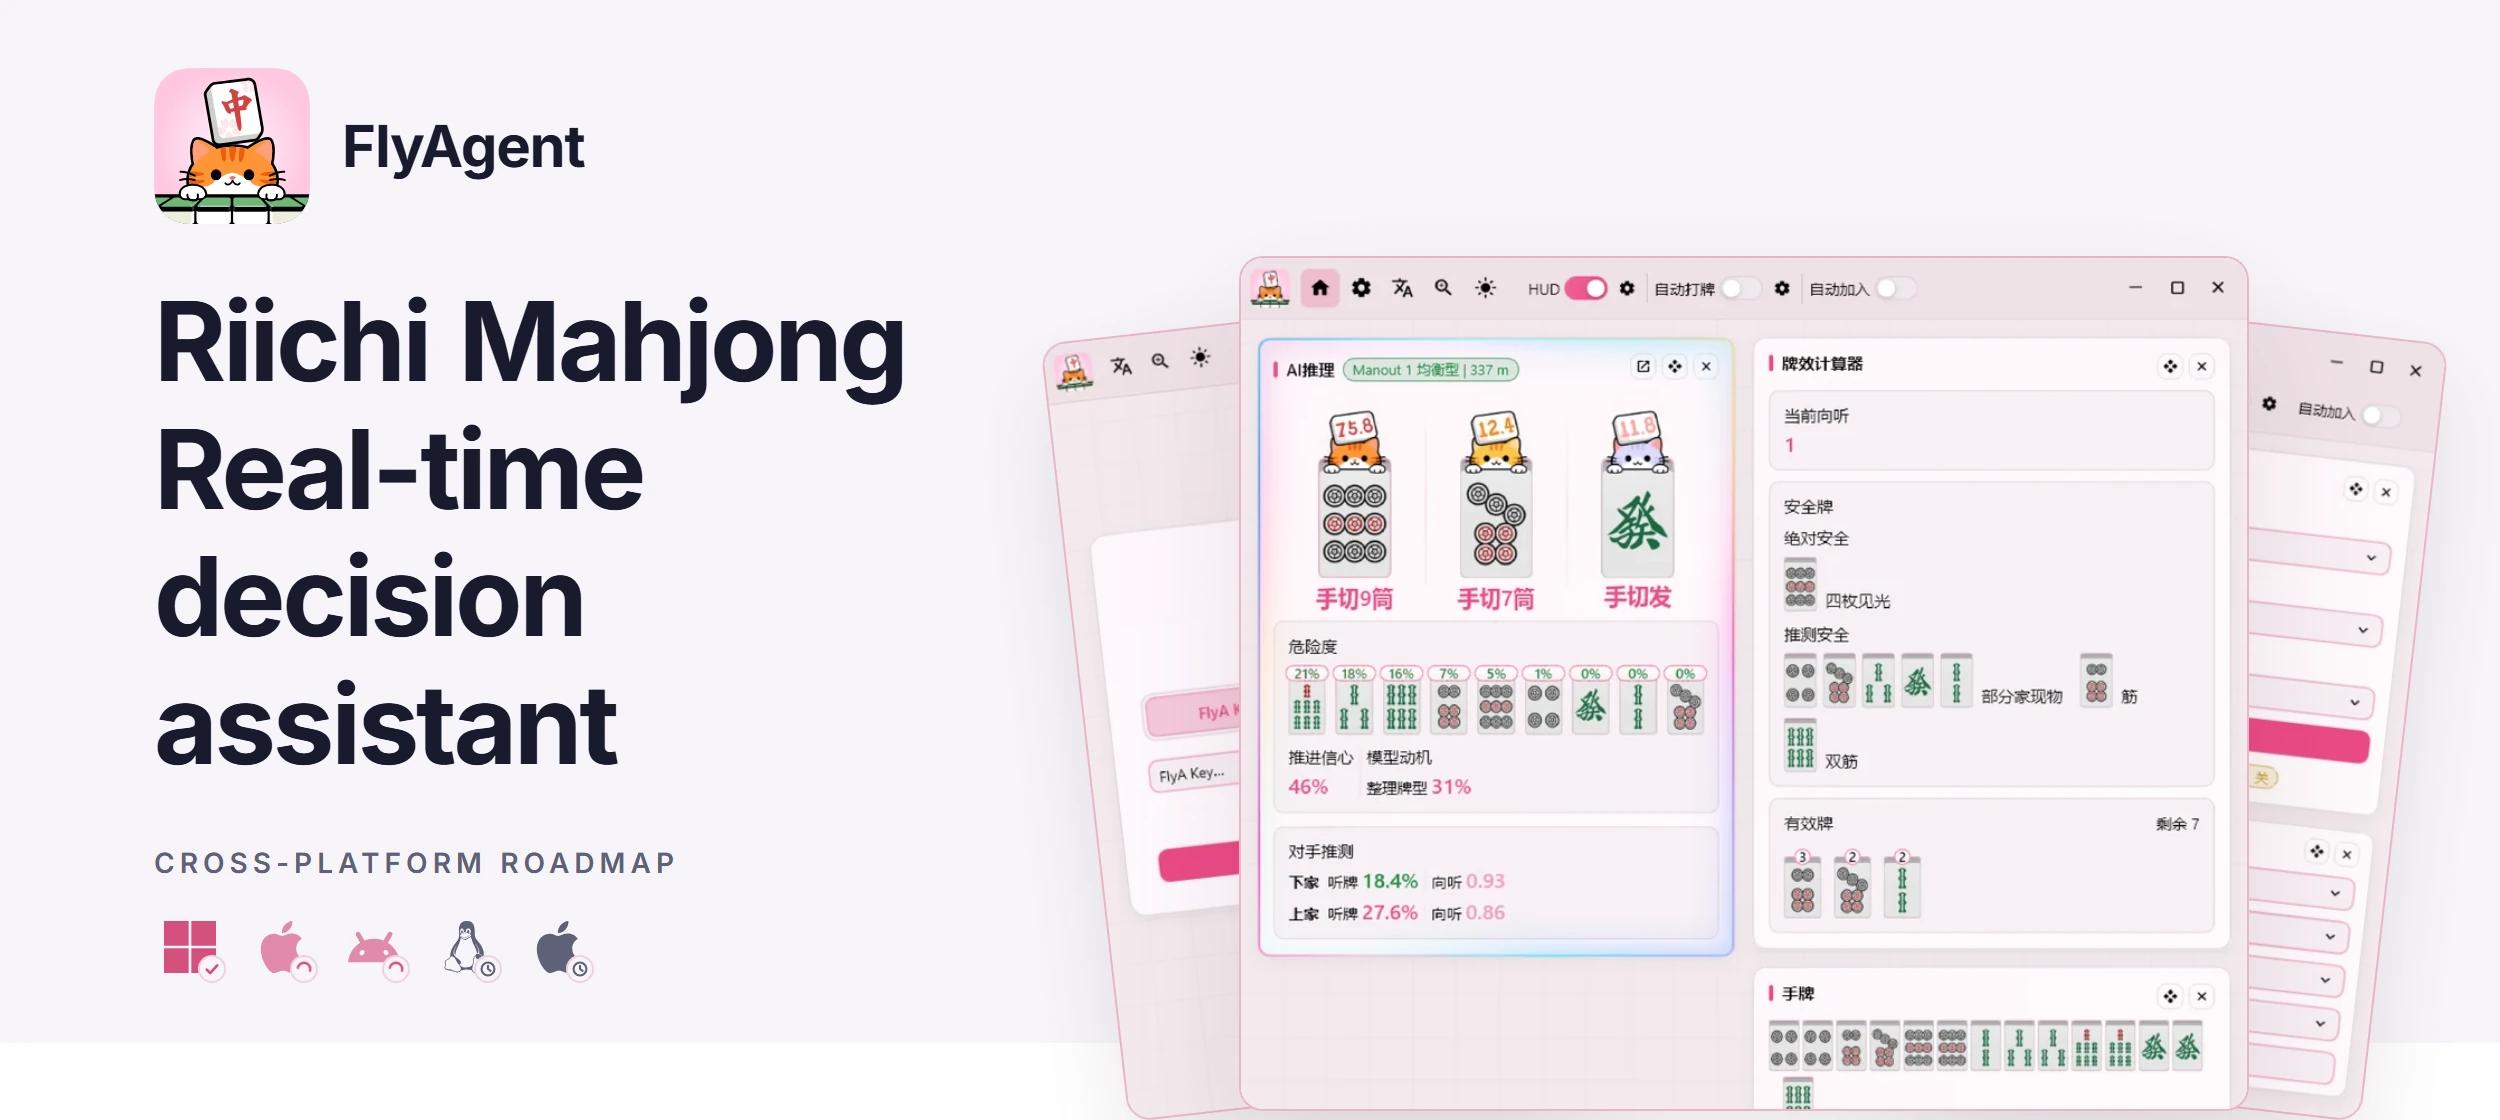
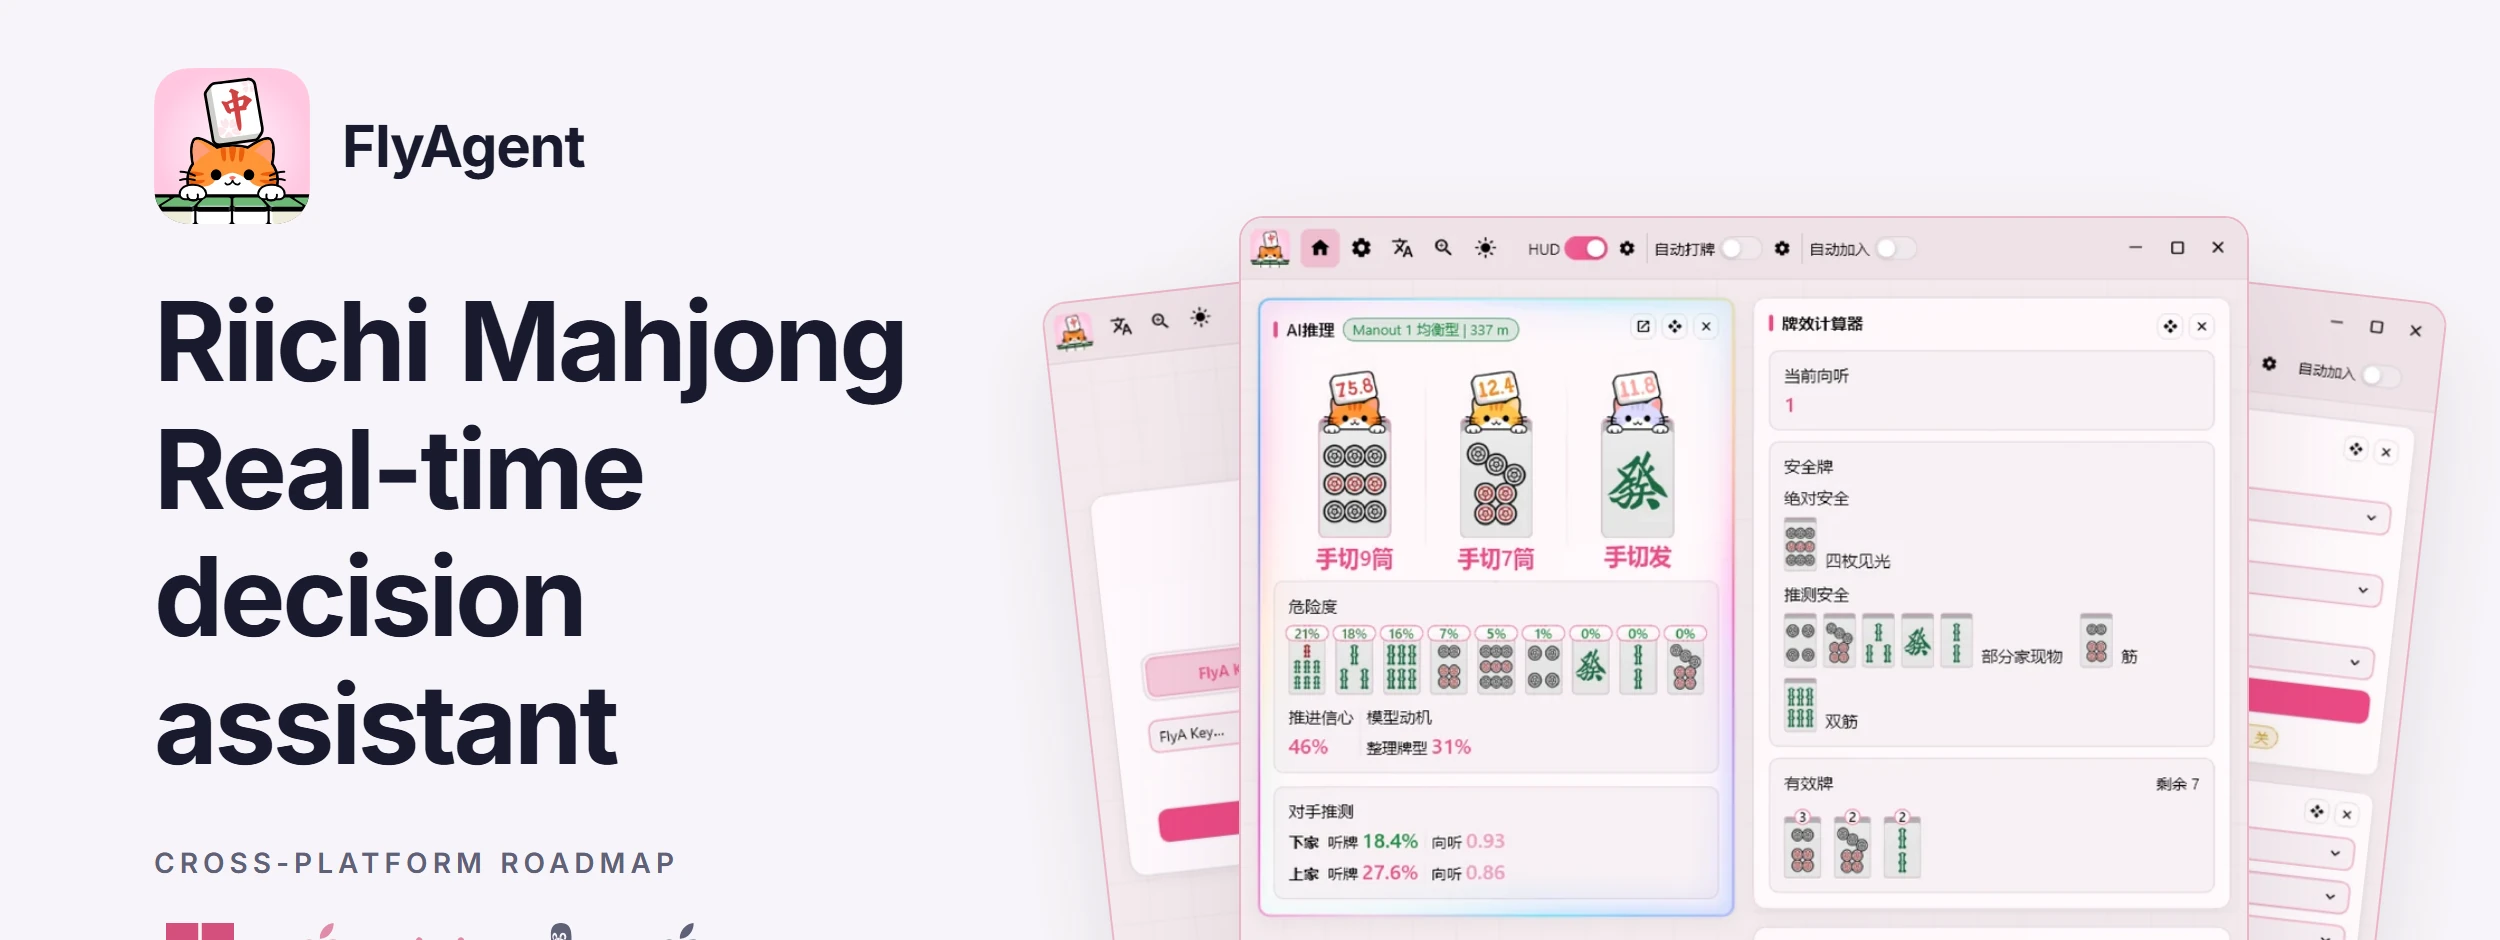
docs: 头图修溢出与排版，图名改英文，去掉重复的大主图
- 头图（HTML 生成版）修三处：
  · 画布加 overflow:hidden —— 右列窗口的 right:-5% 出血设计原来被裁出画布
  · .stack 负边距 -64 → -34px，窗口不再沉出画布底边；出图高度 560 → 470
  · 调整区里 @keyframes os-spin 少一个右括号，导致其后所有 CSS 被丢弃
    （按钮隐藏、平台图标放大都没生效）——已补齐
- 平台图标与状态徽章随之真正放大（容器 36→46、图标 26→34、徽章 14→17）
- 去掉 h1 下面那张大主图：头图里已经含应用窗口，重复
- 图片文件名改英文（ranks / mortal-review / app-screens），
  后续四语 README 共用同一批图，中文名在 URL 里编码后不好读

diff --git a/README.md b/README.md
@@ -1,7 +1,7 @@
 <div align="center">
   <img src="images/hero-en.webp" alt="FlyAgent · riichi mahjong real-time decision assistant" />
   <p>
-    <a href="README_zh-CN.md">简体中文</a> | <strong>English</strong> ·
+    <strong>English</strong> | <a href="README_zh-CN.md">简体中文</a> · <a href="README_zh-TW.md">繁體中文</a> · <a href="README_ja.md">日本語</a> ·
     <a href="https://nashout.com">Website</a> ·
     <a href="https://discord.gg/hUwMGczz">Discord</a>
   </p>
@@ -9,11 +9,9 @@
 
 ---
 
-![FlyAgent main screen](images/主页组图.webp)
-
 ## Mahjong Soul 魂天 · Tenhou 十段 · Tenhou stable rank 天鳳位
 
-![Mahjong Soul 魂天 · Tenhou 十段 · Tenhou stable rank 天鳳位](images/战绩图.webp)
+![Mahjong Soul 魂天 · Tenhou 十段 · Tenhou stable rank 天鳳位](images/ranks.webp)
 
 We are still working toward 天鳳位. As a young model, that takes time.
 
@@ -41,7 +39,7 @@ We went down three roads and saw how they differ:
 
 Below are review results from the open-source model Mortal. The **decision overlap rate is extremely low**, which is further evidence that the FlyA models play their own game. No fear of review, no need to "de-duplicate".
 
-![Mortal review results](images/跑谱图.webp)
+![Mortal review results](images/mortal-review.webp)
 
 ## In-game coaching · fast and rich inference output
 
